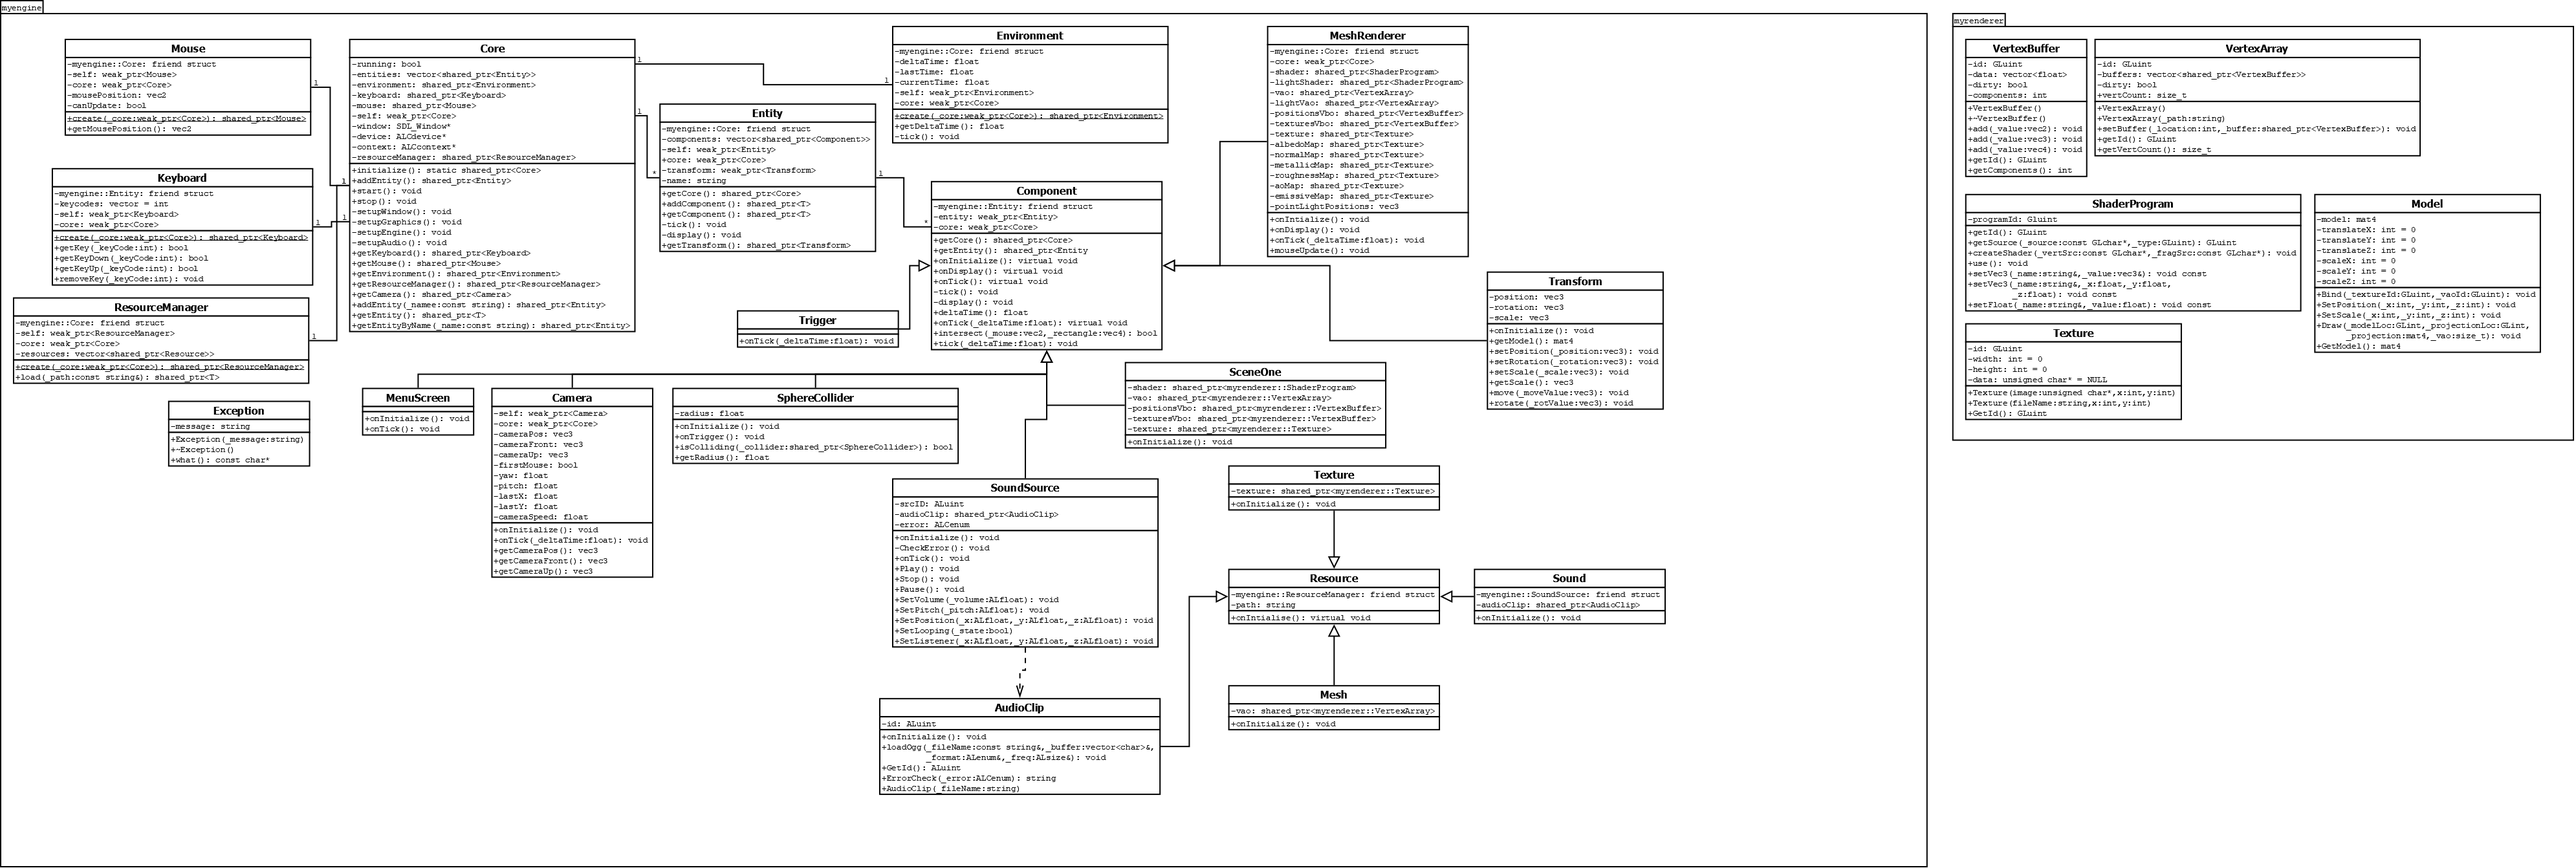
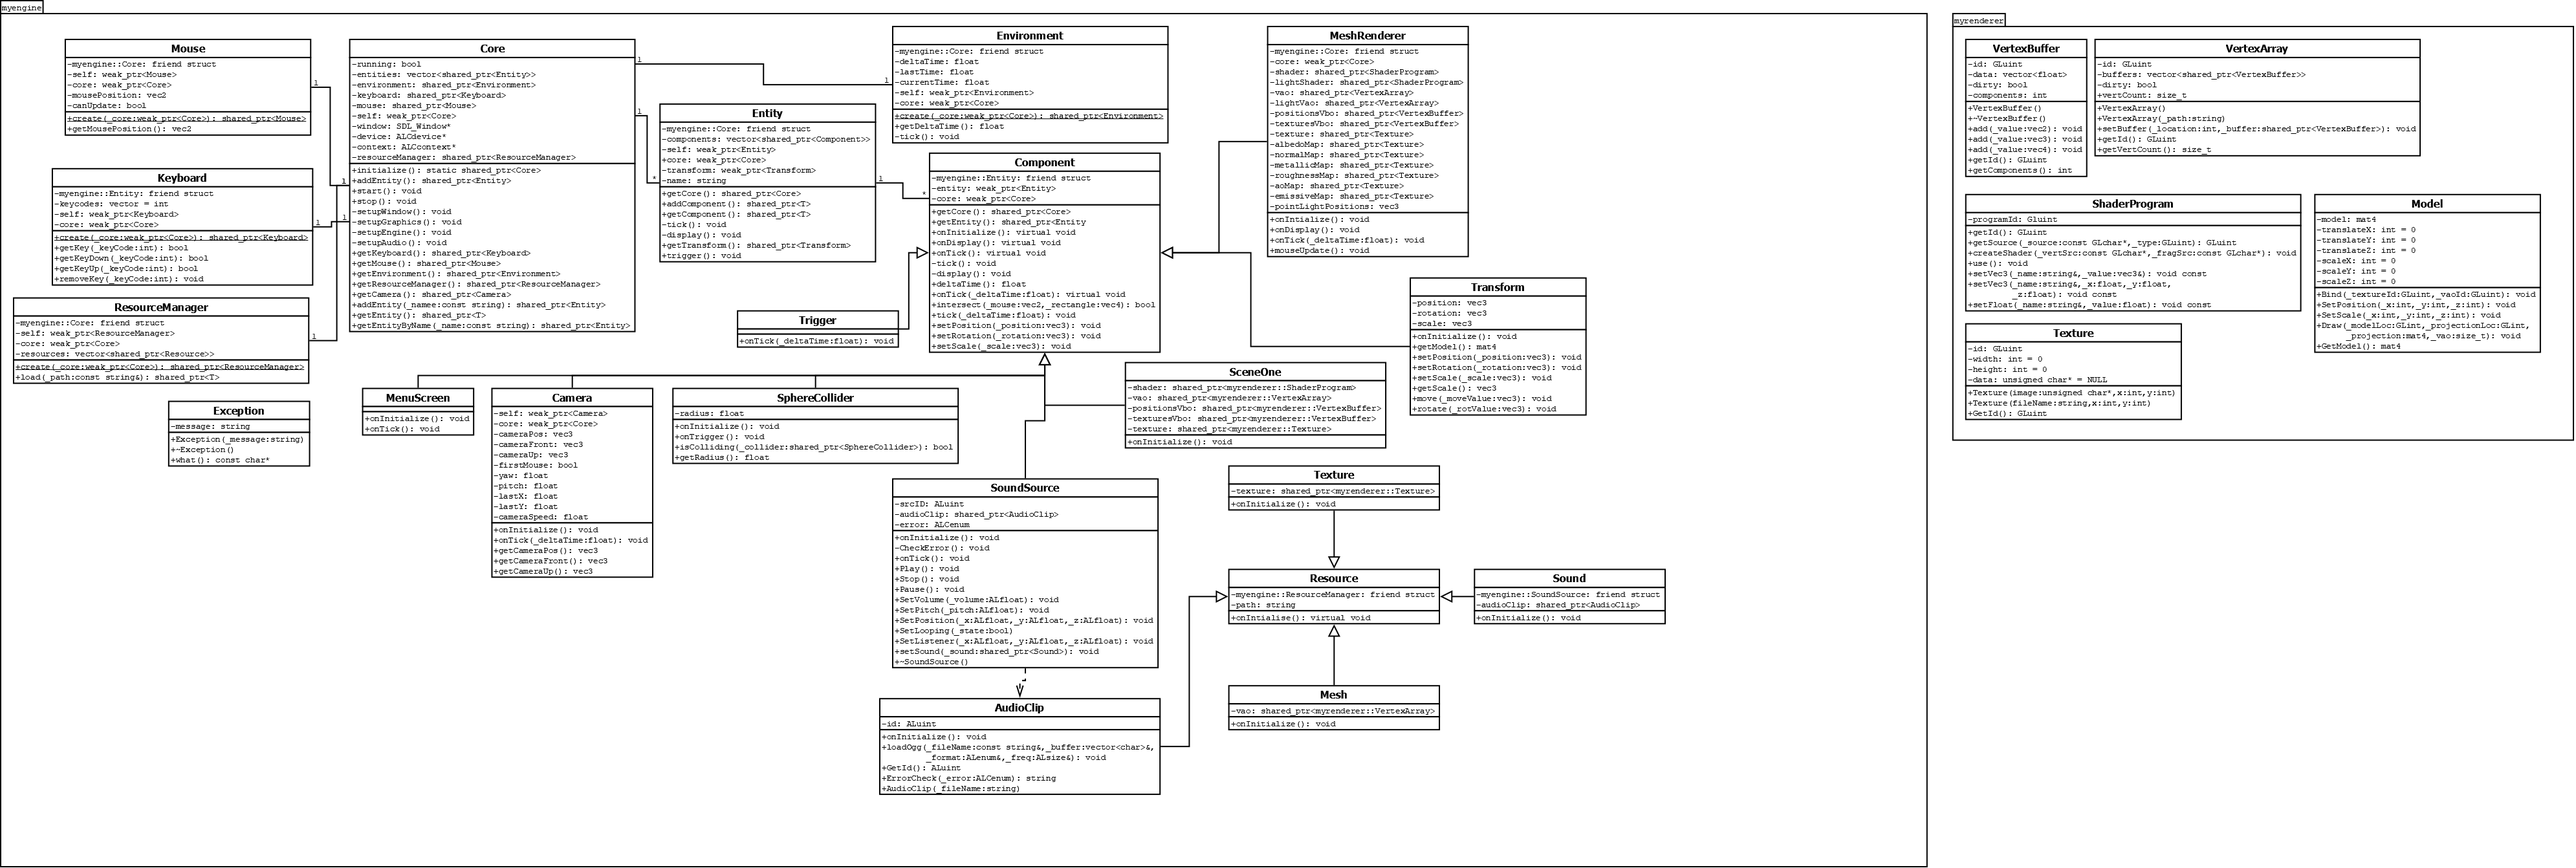
dia, shortcuts

Changed region(s): [[0.1868, 0.1833, 0.4982, 0.4583], [0.5294, 0.3055, 0.6539, 0.4888], [0.3425, 0.7332, 0.436, 0.7638]]

diff --git a/src/myengine/SceneOne.cpp b/src/myengine/SceneOne.cpp
@@ -25,12 +25,8 @@ namespace myengine
 		pmr->setMesh(getCore()->getResourceManager()->load<Mesh>("resources/models/croc/croc"));
 		pmr->setTexture(getCore()->getResourceManager()->load<Texture>("resources/models/croc/croc_diffuse"));
 		std::shared_ptr<SphereCollider> psc = pe->addComponent<SphereCollider>();
-		std::shared_ptr<SoundSource> ss = pe->addComponent<SoundSource>();
-		ss->setSound(getCore()->getResourceManager()->load<Sound>("resources/sounds/doorbell2"));
-		ss->SetVolume(0.25);
-		ss->SetLooping(true);
-		ss->Play();
 		pmr->setRadius(3.0f);
+		pmr->setPosition(vec3(0, 0, -10));
 
 		// Coin
 		std::shared_ptr<Entity> ce = getCore()->addEntity();
@@ -41,7 +37,7 @@ namespace myengine
 		cmr->setTexture(getCore()->getResourceManager()->load<Texture>("resources/models/coin/coin_diffuse"));
 		cmr->setRadius(1.0f);
 		std::shared_ptr<SphereCollider> sc = ce->addComponent<SphereCollider>();
-		cmr->getTransform()->setPosition(vec3(0, 0, -5));
+		cmr->setPosition(vec3(-3, 0, -5));
 
 		// Coin 2
 		std::shared_ptr<Entity> ce2 = getCore()->addEntity();
@@ -52,6 +48,21 @@ namespace myengine
 		cmr2->setTexture(getCore()->getResourceManager()->load<Texture>("resources/models/coin/coin_diffuse"));
 		cmr2->setRadius(1.0f);
 		std::shared_ptr<SphereCollider> sc2 = ce2->addComponent<SphereCollider>();
-		cmr2->getTransform()->setPosition(vec3(0, 0, -10));
+		cmr2->setPosition(vec3(0, 0, -5));
+
+		// Cat
+		std::shared_ptr<Entity> cat = getCore()->addEntity();
+		std::shared_ptr<SoundSource> catSs = cat->addComponent<SoundSource>();
+		std::shared_ptr<Trigger> catTrig = cat->addComponent<Trigger>();
+		std::shared_ptr<MeshRenderer> catMr = cat->addComponent<MeshRenderer>();
+		catMr->setMesh(getCore()->getResourceManager()->load<Mesh>("resources/models/curuthers/curuthers"));
+		catMr->setTexture(getCore()->getResourceManager()->load<Texture>("resources/models/curuthers/Whiskers_diffuse"));
+		std::shared_ptr<SphereCollider> catSc = cat->addComponent<SphereCollider>();
+		catMr->setPosition(vec3(5, 0, 0));
+		catMr->setRadius(3.0f);
+		catSs->setSound(getCore()->getResourceManager()->load<Sound>("resources/sounds/cat"));
+		catSs->SetVolume(0.25f);
+		catSs->SetLooping(true);
+		catSs->Play();
 	}
 }

diff --git a/src/myengine/MenuScreen.cpp b/src/myengine/MenuScreen.cpp
@@ -27,7 +27,7 @@ namespace myengine
 		std::shared_ptr<MeshRenderer> cTitle = eTitle->addComponent<MeshRenderer>();
 		cTitle->setMesh(getCore()->getResourceManager()->load<Mesh>("resources/models/icons/menu"));
 		cTitle->setTexture(getCore()->getResourceManager()->load<Texture>(""));
-		cTitle->getTransform()->setPosition(vec3(-3, 1, -3));
+		cTitle->setPosition(vec3(-3, 1, -3));
 
 
 		// Text
@@ -35,8 +35,8 @@ namespace myengine
 		std::shared_ptr<MeshRenderer> cText = eText->addComponent<MeshRenderer>();
 		cText->setMesh(getCore()->getResourceManager()->load<Mesh>("resources/models/icons/start"));
 		cText->setTexture(getCore()->getResourceManager()->load<Texture>(""));
-		cText->getTransform()->setPosition(vec3(-3.75, -1, -3));
-		cText->getTransform()->setScale(vec3(0.35f, 0.35f, 0.35f));
+		cText->setPosition(vec3(-3.75, -1, -3));
+		cText->setScale(vec3(0.35f, 0.35f, 0.35f));
 
 		// Menu Music
 		std::shared_ptr<SoundSource> ss = eTitle->addComponent<SoundSource>();
@@ -46,7 +46,7 @@ namespace myengine
 		ss->Play();
 	}
 
-	void MenuScreen::onTick()
+	void MenuScreen::onTick(float _deltaTime)
 	{
 		if (getKeyDown(SDLK_s))
 		{

diff --git a/src/demo/Coin.cpp b/src/demo/Coin.cpp
@@ -9,7 +9,11 @@ namespace myengine
 {
 	void Coin::onInitialize()
 	{
-		
+		audio = getEntity()->addComponent<SoundSource>();
+		audio->setSound(getCore()->getResourceManager()->load<Sound>("resources/sounds/coin"));
+		audio->SetVolume(0.05);
+		audio->SetLooping(false);
+
 		hasPlayed = false;
 	}
 
@@ -19,23 +23,17 @@ namespace myengine
 
 	void Coin::onTick(float _deltaTime)
 	{
-		getTransform()->Rotate(vec3(0, 0.5f, 0) * _deltaTime);
+		getTransform()->Rotate(vec3(0, 0.95f, 0) * _deltaTime);
 	}
 
 	void Coin::onTrigger()
 	{
-		std::cout << "[Coin] onTrigger" << std::endl;
-
-		std::shared_ptr<SoundSource> ss = getEntity()->addComponent<SoundSource>();
-		ss->setSound(getCore()->getResourceManager()->load<Sound>("resources/sounds/coin"));
-		ss->SetVolume(0.1);
-		ss->SetLooping(false);
-		
 		// Ensures the audio only plays once 
 		if (!hasPlayed)
 		{
-			ss->Play();
+			audio->Play();
 			hasPlayed = true;
+
 			// Destroy
 			//getEntity()->destroy = true;	// causes read access violation
 		}

diff --git a/src/demo/Player.cpp b/src/demo/Player.cpp
@@ -31,33 +31,20 @@ namespace myengine
 			getTransform()->Move(vec3(0, 0, -5) * _deltaTime);
 		}
 
-		//if (getKeyDown(SDLK_a))
-		//{
-		//	getTransform()->Move(vec3(5, 0, 0) * _deltaTime);
-		//}
-
-		//if (getKeyDown(SDLK_d))
-		//{
-		//	getTransform()->Move(vec3(-5, 0, 0) * _deltaTime);
-		//}
-
 		// Rotate Left
 		if (getKeyDown(SDLK_LEFT))
 		{
-			getTransform()->Rotate(vec3(0, 1, 0) * _deltaTime);
+			getTransform()->Rotate(vec3(0, 2.5f, 0) * _deltaTime);
 		}
 
 		// Rotate Right
 		if (getKeyDown(SDLK_RIGHT))
 		{
-			getTransform()->Rotate(vec3(0, -1, 0) * _deltaTime);
+			getTransform()->Rotate(vec3(0, -2.5f, 0) * _deltaTime);
 		}
 	}
 
-	void Player::onTrigger()
-	{
-		std::cout << "Player Collision Triggered" << std::endl;
-	}
+	void Player::onTrigger() {}
 
 	void Player::onDestroy() {}
 }

diff --git a/src/demo/main.cpp b/src/demo/main.cpp
@@ -13,11 +13,11 @@ int main()
 	std::shared_ptr<Core> core = Core::initialize();
 
 	// Main Menu
-	//std::shared_ptr<Entity> eMenu = core->addEntity("MainMenu");
-	//std::shared_ptr<MenuScreen> cMenu = eMenu->addComponent<MenuScreen>();
+	std::shared_ptr<Entity> eMenu = core->addEntity("MainMenu");
+	std::shared_ptr<MenuScreen> cMenu = eMenu->addComponent<MenuScreen>();
 
-	std::shared_ptr<Entity> eSceneOne = core->addEntity();
-	std::shared_ptr<SceneOne> cSceneOne = eSceneOne->addComponent<SceneOne>();
+	//std::shared_ptr<Entity> eSceneOne = core->addEntity();
+	//std::shared_ptr<SceneOne> cSceneOne = eSceneOne->addComponent<SceneOne>();
 
 	// Start the engine
 	core->start();

diff --git a/src/myengine/Component.cpp b/src/myengine/Component.cpp
@@ -11,6 +11,7 @@
 #include "ResourceManager.h"
 
 #include <iostream>
+#include "mymath.h"
 
 namespace myengine
 {
@@ -96,6 +97,21 @@ namespace myengine
 	std::shared_ptr<Transform> Component::getTransform()
 	{
 		return getEntity()->getTransform();
+	}
+
+	void Component::setPosition(vec3 _position)
+	{
+		getTransform()->setPosition(_position);
+	}
+
+	void Component::setScale(vec3 _scale)
+	{
+		getTransform()->setScale(_scale);
+	}
+
+	void Component::setRotation(vec3 _rotation)
+	{
+		getTransform()->setRotation(_rotation);
 	}
 
 	/**

diff --git a/src/myengine/MeshRenderer.h b/src/myengine/MeshRenderer.h
@@ -100,10 +100,10 @@ namespace myengine
 
 		/// Used to determine the location of the point lights within the scene.
 		glm::vec3 pointLightPositions[4] = {
-			glm::vec3(0.7f,  0.2f,  2.0f),
-			glm::vec3(2.3f, -3.3f, -4.0f),
-			glm::vec3(-4.0f,  2.0f, -12.0f),
-			glm::vec3(0.0f,  0.0f, -3.0f)
+			glm::vec3(6.0f,  0.0f, -6.0f),
+			glm::vec3(0.0f,  0.0f, 6.0f),
+			glm::vec3(-6.0f,  0.0f, -6.0f),
+			glm::vec3(0.0f,  0.0f, -6.0f)
 		};
 	};
 }

diff --git a/src/myengine/Component.h b/src/myengine/Component.h
@@ -33,6 +33,10 @@ namespace myengine
 
 		bool intersect(vec2 _mouse, vec4 _rectangle);
 
+		void setPosition(vec3 _position);
+		void setScale(vec3 _scale);
+		void setRotation(vec3 _rotation);
+
 	private:
 		friend struct myengine::Entity;
 

diff --git a/src/demo/Coin.h b/src/demo/Coin.h
@@ -2,6 +2,8 @@
 
 namespace myengine
 {
+	struct SoundSource;
+
 	struct Coin : Component
 	{
 		void onInitialize();
@@ -12,5 +14,6 @@ namespace myengine
 
 	private:
 		bool hasPlayed;
+		std::shared_ptr<SoundSource> audio;
 	};
 }

diff --git a/src/myengine/MenuScreen.h b/src/myengine/MenuScreen.h
@@ -8,6 +8,6 @@ namespace myengine
 	struct MenuScreen : Component
 	{
 		void onInitialize();
-		void onTick();
+		void onTick(float _deltaTime);
 	};
 }
